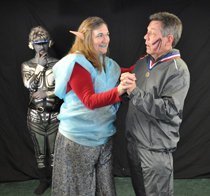
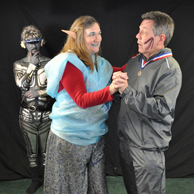
Final Submission of PHP
Added another Table to database, and fixed CSS issues. Code Validated

diff --git a/whodunnit/stylesheet.css b/whodunnit/stylesheet.css
@@ -42,6 +42,10 @@ body.whiteScreen {
   transition: none;
 }
 
+img {
+  width: 100%;
+  height: auto;
+}
 
 /* ---- Wrapper ----*/
 #main {
@@ -105,20 +109,10 @@ body.whiteScreen {
 
 .showList {
   display: flex;
-  flex-direction: row;
-
-}
-
-.thumbNail {
-  margin: 0 1rem 0 0;
-  border: 2px solid #f49a3a;
 }
 
 .thumbDesc {
   display: flex;
-  flex-direction: column;
-  justify-content: flex-start;
-  align-items: flex-start;
 }
 
 .mainContent {
@@ -382,12 +376,29 @@ p {
       justify-content: flex-end;
     }
 
-
     .content {
       display: flex;
       flex-flow: column nowrap;
       justify-content: flex-end;
       align-items: center;
+    }
+
+    .showList {
+      flex-direction: column;
+      justify-content: center;
+      align-items: center;
+      align-content: center;
+    }
+
+    .thumbNail {
+      width: 275px;
+      height: 275px;
+      margin: 0;
+    }
+
+    .thumbDesc {
+      flex-direction: column;
+      justify-content: center;
     }
 
     .footer {
@@ -404,8 +415,16 @@ p {
 }
 
 
+@media screen and (min-width: 480px) {
+    .thumbNail {
+      width: 250px;
+      height: 250px;
+    }
+}
 
-@media screen and (min-width: 760px) {
+
+
+@media screen and (min-width: 768px) {
     ul {
         display: flex;
         flex-direction: row;
@@ -421,10 +440,16 @@ p {
         text-align: left;
       }
 
+ 
     .content {
       display: flex;
       flex-flow: row-reverse nowrap;
+      align-items: flex-start;
+      justify-content: flex-start;
+      align-content: flex-start;
+
     }
+    
 
     .mobileDisappear {
       display: initial;
@@ -446,6 +471,24 @@ p {
       width: 240px;
     }
 
+    .showList {
+      flex-direction: row;
+      justify-content: flex-start;
+      align-items: flex-start;
+      align-content: flex-start;
+    }
+
+    .thumbNail {
+      width: 425px;
+      height: auto;
+      margin: 0 1rem 0 0;
+    }
+
+    .thumbDesc {
+      flex-direction: column;
+      align-items: flex-start;
+    }
+
     .asideImage {
       border: 1px solid #f49a3a;
     }
@@ -462,6 +505,16 @@ p {
       flex-direction: column;
       justify-content: center;
       padding: 1rem;
+    }
+}
+
+
+
+@media screen and (min-width: 960px) {
+    .thumbNail {
+      width: 250px;
+      height: auto;
+      margin: 0 1rem 0 0;
     }
 }
 
@@ -500,10 +553,6 @@ p {
       width: 240px;
     }
 
-    .content {
-            display: flex;
-            flex-flow: row-reverse nowrap;
-    }
 
     .asideImage {
       border: 1px solid #f49a3a;

diff --git a/whodunnit/includes/_footer.php b/whodunnit/includes/_footer.php
@@ -1,32 +1,36 @@
 <!--
-     ______          _            
-    |  ____|        | |           
-    | |__ ___   ___ | |_ ___ _ __ 
-    |  __/ _ \ / _ \| __/ _ \ '__|
-    | | | (_) | (_) | ||  __/ |   
-    |_|  \___/ \___/ \__\___|_|
-    -->
-    <div class="purpleBox">
-      <div class="mobileDisappear"><h6><ul>
+ ______          _            
+|  ____|        | |           
+| |__ ___   ___ | |_ ___ _ __ 
+|  __/ _ \ / _ \| __/ _ \ '__|
+| | | (_) | (_) | ||  __/ |   
+|_|  \___/ \___/ \__\___|_|
+-->
+<div class="purpleBox">
+  <div class="mobileDisappear">
+    <ul>
       <li><a href="news_events.php" style="text-decoration:none">News &amp; Events</a></li>
-        <li><a href="privateparties.php" style="text-decoration:none">Private Parties</a></li>
-        <li><a href="directions.php" style="text-decoration:none">Directions</a></li>
-        <li><a href="sponsorship.php" style="text-decoration:none">Sponsorship</a></li>
-        <li><a href="aboutus.php" style="text-decoration:none">About Us</a></li>
-      </ul></h6></div><!-- mobileDisappear END -->
-    <div class="footer">
-      <div class="boxes">
-        <h5>WhoDunnit is a non-profit, donation-supported corporation for the performing arts.</h5>
-      </div>
-      <div class="boxes">
-        <h6>WhoDunnit doesn't license scripts directly. However, most of our critically acclaimed and very popular murder mystery and dinner theater shows are available for licensing directly from the authors. More than 30 titles are available. For a list of available scripts and licensing info, phone us at (502) 426-7100. 
-        <p>
-        Please note, however, that WhoDunnit authors consider mystery to be an art form. If your group does over-the-top comedic mysteries with minimal story line, please do not call us. However, if you would like to thrill your audiences with scripts worthy of A&amp;E, we welcome your inquiry: (502) 426-7100</h6>
-      </div>
-      <div class="boxes">
-        <h5>If you don't see our logo, it's not WhoDunnit! [TM]</h5>
-        <a href="http://www.whodunnitky.com/"><img src="imagery/WhoDunnit_logo_small.png" alt="WhoDunnits"></a>
-      </div>
-    </div><!-- footer END -->
-      <h6>&copy; 2017, Contact us today: (502) 426-7100<h6>
-    </div><!-- purpleBox END -->
+      <li><a href="privateparties.php" style="text-decoration:none">Private Parties</a></li>
+      <li><a href="directions.php" style="text-decoration:none">Directions</a></li>
+      <li><a href="sponsorship.php" style="text-decoration:none">Sponsorship</a></li>
+      <li><a href="aboutus.php" style="text-decoration:none">About Us</a></li>
+    </ul>
+  </div><!-- mobileDisappear END -->
+
+  <div class="footer">
+    <div class="boxes">
+      <h5>WhoDunnit is a non-profit, donation-supported corporation for the performing arts.</h5>
+    </div>
+    <div class="boxes">
+      <h6>WhoDunnit doesn't license scripts directly. However, most of our critically acclaimed and very popular murder mystery and dinner theater shows are available for licensing directly from the authors. More than 30 titles are available. For a list of available scripts and licensing info, phone us at (502) 426-7100.</h6>
+    </div>
+    <div class="boxes">
+      <h6>Please note, however, that WhoDunnit authors consider mystery to be an art form. If your group does over-the-top comedic mysteries with minimal story line, please do not call us. However, if you would like to thrill your audiences with scripts worthy of A&amp;E, we welcome your inquiry: (502) 426-7100</h6>
+    </div>
+    <div class="boxes">
+      <h5>If you don't see our logo, it's not WhoDunnit! [TM]</h5>
+      <a href="http://www.whodunnitky.com/"><img src="imagery/WhoDunnit_logo_small.png" alt="WhoDunnits"></a>
+    </div>
+  </div><!-- footer END -->
+  <h6>&copy; 2017, Contact us today: 502-426-7100</h6>
+</div><!-- purpleBox END -->

diff --git a/whodunnit/news_events.php b/whodunnit/news_events.php
@@ -1,6 +1,6 @@
 <?php require_once 'includes/config.php'; ?>
 <!DOCTYPE html>
-<html>
+<html lang="en">
 	<head>
     	<meta charset="utf-8"/>
   		<meta name="viewport" content="width=device-width, initial-scale=1.0">
@@ -15,8 +15,8 @@
  | |__| |____) / / | |____ ____) |___) |
   \____/|_____/_/   \_____|_____/_____/
  -->
-  		<link rel="stylesheet" type="text/css" href="stylesheet.css">
   		<link rel="stylesheet" href="https://cdnjs.cloudflare.com/ajax/libs/normalize/5.0.0/normalize.min.css">
+      <link rel="stylesheet" type="text/css" href="stylesheet.css">
 
 	</head>
 <body>
@@ -43,7 +43,7 @@
     <div class="blackBox">
       <h2>Now Playing</h2>
       <div class="outerText">
-        <div class="imgBox"><a target="_blank" href="imagery/ye_olde_new.jpg"><img src="imagery/ye_olde_new.jpg" alt="ye_olde_new" style="max-width: 760px;"></a></div>
+        <div class="imgBox"><a target="_blank" href="imagery/ye_olde_new.jpg"><img src="imagery/ye_olde_new.jpg" alt="ye_olde_new"></a></div>
           <div class="desc">Ye Olde Murder Mystery<h6>Saturday Evenings, May 12–June 23</h6>
           </div>
           Step back in time to 1908, the era of the greatest mystery stories ever told! Who killed the evil duke Harry Hollingsworth, and why? Are others in danger? And how does La Curèe, the mysterious masterpiece of art, come into play? Match wits with WhoDunnit’s favorite detective Dr. Angus MacCrimmon, as he returns to solve his newest, most challenging and most intriguing mystery ever!
@@ -53,7 +53,7 @@
 <div class="whiteArea">
   <div class="mainContent">
     <?php include 'includes/_showList.php'; ?>
-    <p>
+    
     <div class="headline">
       <h3>Most public shows at the Bristol Bar &amp; Grille Downtown<br>
       614 West Main Street, Louisville, KY.

diff --git a/whodunnit/index.php b/whodunnit/index.php
@@ -1,6 +1,6 @@
 <!DOCTYPE html>
 <?php require_once 'includes/config.php'; ?>
-<html>
+<html lang="en">
 	<head>
     	<meta charset="utf-8"/>
   		<meta name="viewport" content="width=device-width, initial-scale=1.0">
@@ -17,8 +17,6 @@
  -->
   		<link rel="stylesheet" type="text/css" href="stylesheet.css">
   		<link rel="stylesheet" href="https://cdnjs.cloudflare.com/ajax/libs/normalize/5.0.0/normalize.min.css">
-  		<script src='http://cdnjs.cloudflare.com/ajax/libs/jquery/2.1.3/jquery.min.js'></script>
-		<script src="javascript.js"></script>
 
 	</head>
 <body>
@@ -64,7 +62,7 @@
 	      </div><!-- headline END -->
 
 	    	<div class="content">
-		        <div class="asideImage"><img src="imagery/card_game.jpg" alt="card game"></div>
+		        <img src="imagery/card_game.jpg" alt="card game">
 		        <p>
 		        <div class="paragraph">WhoDunnit shows are original, lively and thoroughly enertaining, as well as a mystery lover's dream!
 		        <p>
@@ -99,5 +97,7 @@
  -->
 		<?php include 'includes/_footer.php'; ?>
 
+	<script src='http://cdnjs.cloudflare.com/ajax/libs/jquery/2.1.3/jquery.min.js'></script>
+	<script src="javascript.js"></script>
 </body>
 </html>

diff --git a/whodunnit/directions.php b/whodunnit/directions.php
@@ -1,6 +1,6 @@
 <?php require_once 'includes/config.php'; ?>
 <!DOCTYPE html>
-<html>
+<html lang="en">
 	<head>
     	<meta charset="utf-8"/>
   		<meta name="viewport" content="width=device-width, initial-scale=1.0">
@@ -48,9 +48,7 @@
         <div class="desc">
           Bristol Bar &amp; Grille<h6>614 W. Main Street<br>Louisville, KY 40202<br>Phone: 502-582-1995</h6>
           <p>
-          <div class="imgBox">
           <img src="imagery/Bristol_Bar.jpg" alt="Bristol_Bar">
-          </div>
         </div>
       </div><!-- outerBox END -->
     </div><!-- blackBox END -->

diff --git a/whodunnit/includes/_showList.php b/whodunnit/includes/_showList.php
@@ -20,8 +20,9 @@
 
   <div class="showList">
     <div class="thumbNail">
-      <img src="<?php echo $row['image']; ?>" alt="<?php echo $row['name']; ?>" style="max-width: 115px;">
+      <img src="<?php echo $row['image']; ?>" alt="<?php echo $row['name']; ?>">
     </div>
+    <br>
     <div class="thumbDesc">
       <h3><?php echo $row['name']; ?></h3>
       <p><?php echo $row['description']; ?></p>

diff --git a/whodunnit/aboutUs.php b/whodunnit/aboutUs.php
@@ -1,6 +1,6 @@
 <?php require_once 'includes/config.php'; ?>
 <!DOCTYPE html>
-<html>
+<html lang="en">
 	<head>
     	<meta charset="utf-8"/>
   		<meta name="viewport" content="width=device-width, initial-scale=1.0">

diff --git a/whodunnit/sponsorship.php b/whodunnit/sponsorship.php
@@ -100,6 +100,7 @@
 
     </div><!-- mainContent END -->
     </div><!-- whiteArea END -->
+  </div><!-- Main END -->
     <!--
      ______          _            
     |  ____|        | |           
